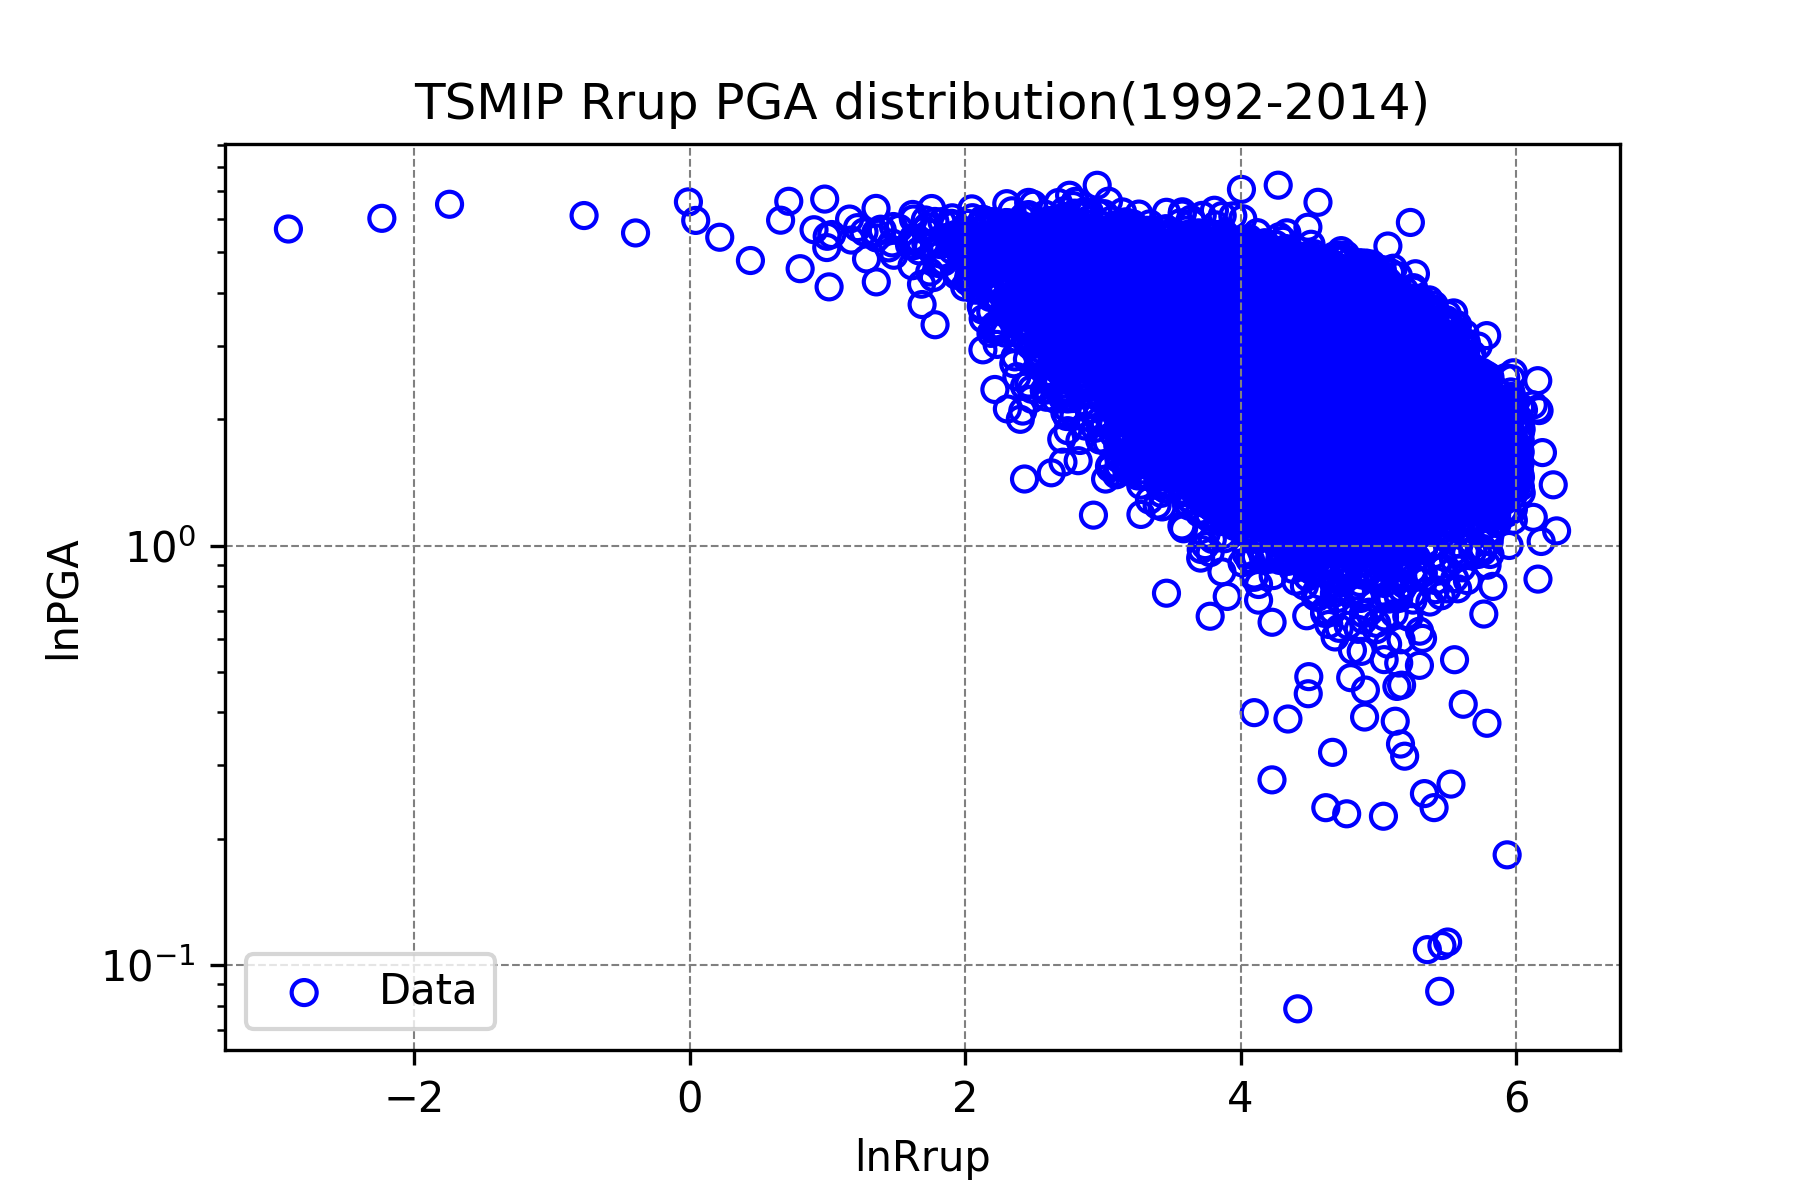
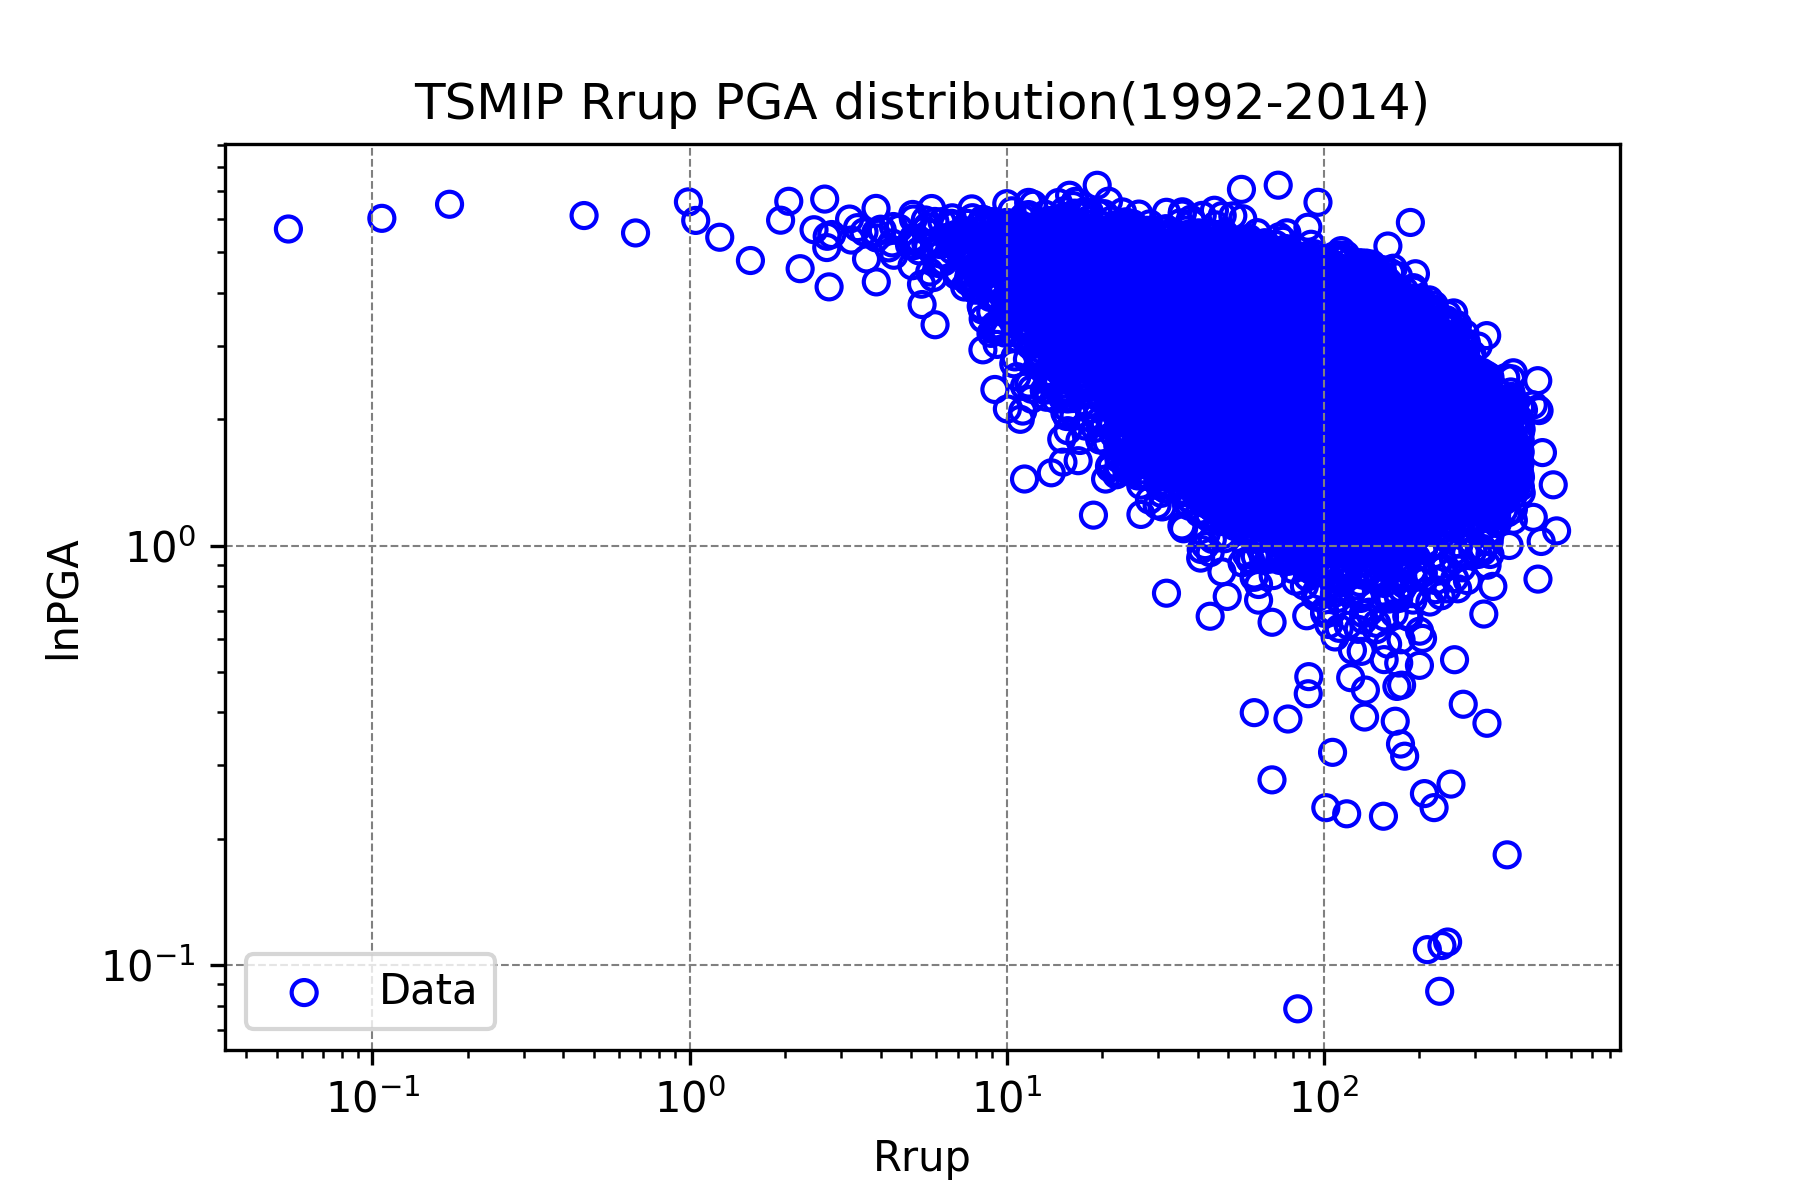
result figure

diff --git a/machine_learning/SVR/SVR_TSMIP_smogn.py b/machine_learning/SVR/SVR_TSMIP_smogn.py
@@ -125,38 +125,15 @@ t0 = time.time()
 grid_result = svr_rbf.fit(x_train, y_train)
 fit_time = time.time() - t0
 svr_predict = svr_rbf.predict(x_test)
+svr_predict_train = svr_rbf.predict(x_train)
 # 評估，打分數
 score = svr_rbf.score(x_test, y_test)
+score_train = svr_rbf.score(x_train, y_train)
 print("初步得到的分數: ", score)
 
 # # Cross_validation計算成績
 scores = cross_val_score(svr_rbf, x, y, cv=6, scoring=two_scorer())
 print("CV後 R2 scores:", scores)
-
-# ################### SMOGN_data distribution ###########################
-# 1. Rrup Mw distribution
-
-# plt.grid(color='gray', linestyle = '--',linewidth=0.5)
-# plt.scatter(TSMIP_df['Rrup'], TSMIP_df['MW'], marker='o',facecolors='none',edgecolors='b', label= 'Data') #數據點
-# plt.xscale("log")
-# plt.xlim(1e-1,1e3)
-# plt.xlabel('Rrup')
-# plt.ylabel('Mw')
-# plt.title('TSMIP_SMOGN Data distribution')
-# plt.legend()
-# plt.savefig(f'TSMIP_SMOGN Data distribution.png',dpi=300)
-# plt.show()
-
-# 2. Vs30 Number of ground motion distribution
-
-# plt.grid(color='gray', linestyle = '--',linewidth=0.5)
-# plt.hist(TSMIP_smogn_df['Vs30'], bins=20, edgecolor="yellow", color="green")
-# plt.xlabel('Vs30(m/s)')
-# plt.ylabel('Number of record')
-# plt.ylim(0,9000)
-# plt.title('TSMIP_SMOGN Vs30 distribution')
-# plt.savefig('TSMIP_SMOGN Vs30 distribution.png',dpi=300)
-# plt.show()
 
 ######################### residual #########################
 # 1. 計算Vs30_residual
@@ -171,8 +148,8 @@ plt.xscale("log")
 plt.xlim(1e2, 2 * 1e3)
 plt.ylim(-3, 3)
 plt.xlabel('Vs30(m/s)')
-plt.ylabel('Residual_PGA(cm/s^2)')
-plt.title('SVR Predict Residual R:accuracy: %.3f' % (score))
+plt.ylabel('Residual_lnPGA(cm/s^2)')
+plt.title('SVR Predict Residual R2 score: %.3f' % (score))
 plt.savefig(f'Vs30-SVR_predict_residual.png', dpi=300)
 plt.show()
 
@@ -187,8 +164,8 @@ plt.scatter(x_test[:, 1],
 plt.xlim(3, 8)
 plt.ylim(-3, 3)
 plt.xlabel('Mw')
-plt.ylabel('Residual_PGA(cm/s^2)')
-plt.title('SVR Predict Residual R:accuracy: %.3f' % (score))
+plt.ylabel('Residual_lnPGA(cm/s^2)')
+plt.title('SVR Predict Residual R2 score: %.3f' % (score))
 plt.savefig(f'Mw-SVR_predict_residual.png', dpi=300)
 plt.show()
 
@@ -201,40 +178,41 @@ plt.scatter(np.exp(x_test[:, 2]),
             facecolors='none',
             edgecolors='r')  #迴歸線
 plt.xscale("log")
-plt.xlim(1e0, 1e3)
+plt.xlim(5 * 1e0, 1e3)
 plt.ylim(-3, 3)
 plt.xlabel('Rrup(km)')
-plt.ylabel('Residual_PGA(cm/s^2)')
-plt.title('SVR Predict Residual R:accuracy: %.3f' % (score))
+plt.ylabel('Residual_lnPGA(cm/s^2)')
+plt.title('SVR Predict Residual R2 score: %.3f' % (score))
 plt.savefig(f'Rrup-SVR_predict_residual.png', dpi=300)
 plt.show()
 
 ######################### 畫svr_predict 關係圖 #########################
 # 1. Vs30 and svr_predict 關係圖
 plt.grid(linestyle=':', color='darkgrey')
-plt.scatter(x_test[:, 0],
+plt.scatter(np.exp(x_test[:, 0]),
             y_test,
             marker='o',
             facecolors='none',
             edgecolors='b',
             label='True Values')  #數據點
-plt.scatter(x_test[:, 0],
+plt.scatter(np.exp(x_test[:, 0]),
             svr_predict,
             marker='o',
             facecolors='none',
             edgecolors='r',
             label='Predict Values')  #迴歸線
 plt.xscale("log")
-plt.xlim(1e-1, 1e3)
+plt.xlim(1e2, 2 * 1e3)
 # plt.ylim(-2, 3)
 plt.xlabel('Vs30(m/s)')
 plt.ylabel('lnPGA(cm/s^2)')
-plt.title('SVR Predict Distribution R:accuracy: %.3f' % (score))
+plt.title('Vs30-SVR_predict Distribution R2 score: %.3f' % (score))
+plt.legend()
 plt.savefig(f'Vs30-SVR_predict.png', dpi=300)
 plt.show()
 
 # 2. Mw and svr_predict relationship
-plt.grid(linestyle=':')
+plt.grid(linestyle=':', color='darkgrey')
 plt.scatter(x_test[:, 1],
             y_test,
             marker='o',
@@ -249,43 +227,70 @@ plt.scatter(x_test[:, 1],
             label='Predict Values')  #迴歸線
 plt.yscale("log")
 plt.xlim(3, 8)
-plt.ylim(1e-3, 1e4)
+# plt.ylim(1e-3, 1e4)
 plt.xlabel('Mw')
-plt.ylabel('PGA(cm/s^2)')
-plt.title('Support Vector Regression')
+plt.ylabel('lnPGA(cm/s^2)')
+plt.title('Mw-SVR_predict Distribution R2 score: %.3f' % (score))
 plt.legend()
-plt.savefig(f'Mw-SVR_SMOGN_predict.png', dpi=300)
+plt.savefig(f'Mw-SVR_predict.png', dpi=300)
 plt.show()
 
 # 3. Rrup and svr_predict relationship
-plt.grid(linestyle=':')
-plt.scatter(x_test[:, 2],
+plt.grid(linestyle=':', color='darkgrey')
+plt.scatter(np.exp(x_test[:, 2]),
             y_test,
             marker='o',
             facecolors='none',
             edgecolors='b',
-            label='Data')  #數據點
-plt.scatter(x_test[:,2], svr_predict,marker='o',facecolors='none',edgecolors='r', \
-    label='SVR (fit: %.3fs, accuracy: %.3f)' % (fit_time, score)) #迴歸線
+            label='True Values')  #數據點
+plt.scatter(np.exp(x_test[:, 2]),
+            svr_predict,
+            marker='o',
+            facecolors='none',
+            edgecolors='r',
+            label='Predict Values')  #迴歸線
+plt.xscale("log")
+plt.yscale("log")
 plt.xlabel('lnRrup')
-plt.ylabel('svr_predict')
-plt.title('Support Vector Regression')
+plt.ylabel('lnPGA(cm/s^2)')
+plt.title('Rrup-SVR_predict Distribution R2 score: %.3f' % (score))
 plt.legend()
-plt.savefig(f'Rrup-SVR_SMOGN_predict.png', dpi=300)
+plt.savefig(f'Rrup-SVR_predict.png', dpi=300)
 plt.show()
 
 ###################### 預測PGA和實際PGA #####################
-plt.grid(linestyle=':')
-plt.scatter(y_test, svr_predict,marker='o',facecolors='none',edgecolors='r', \
-    label='SVR (fit: %.3fs, accuracy: %.3f)' % (fit_time, score)) #迴歸線.
-x = [0, 2, 4, 6, 8, 10]
-y = [0, 2, 4, 6, 8, 10]
+# training subset
+plt.grid(linestyle=':', color='darkgrey')
+plt.scatter(y_train, svr_predict_train, marker='o', facecolors='none',
+            edgecolors='r',label="Data")  #迴歸線.
+x = [-5, 10]
+y = [-5, 10]
 plt.plot(x, y, color='blue')
-plt.xlabel('Measured PGA')
-plt.ylabel('svr_Predict PGA')
-plt.ylim(0, 10)
-plt.xlim(0, 10)
-plt.title('Support Vector Regression')
+plt.xlabel('Measured ln(PGA)(cm/s^2)')
+plt.ylabel('SVR_Predict ln(PGA)(cm/s^2)')
+plt.ylim(-5, 10)
+plt.xlim(-5, 10)
+plt.text(6,-2,f"R2 score = {round(score_train,2)}")
+plt.text(6,-1,f"MAE = 0.38")
 plt.legend()
-plt.savefig(f'PGA_comparison_SMOGN_predict.png', dpi=300)
+plt.title('Measured_Predict Distribution')
+plt.savefig(f'Measured_Predict Training Subset.png', dpi=300)
+plt.show()
+
+# testing subset
+plt.grid(linestyle=':', color='darkgrey')
+plt.scatter(y_test, svr_predict, marker='o', facecolors='none',
+            edgecolors='r',label="Data")  #迴歸線.
+x = [-5, 10]
+y = [-5, 10]
+plt.plot(x, y, color='blue')
+plt.xlabel('Measured ln(PGA)(cm/s^2)')
+plt.ylabel('SVR_Predict ln(PGA)(cm/s^2)')
+plt.ylim(-5, 10)
+plt.xlim(-5, 10)
+plt.text(6,-2,f"R2 score = {round(score,2)}")
+plt.text(6,-1,f"MAE = 0.40")
+plt.legend()
+plt.title('Measured_Predict Distribution')
+plt.savefig(f'Measured_Predict Testing Subset.png', dpi=300)
 plt.show()

diff --git a/machine_learning/SVR/SMOGN_data_distribution.py b/machine_learning/SVR/SMOGN_data_distribution.py
@@ -1,0 +1,94 @@
+import smogn
+import pandas as pd
+import numpy as np
+import matplotlib.pyplot as plt
+import pygmt
+import time
+from sklearn.model_selection import cross_val_score
+from sklearn.svm import SVR
+from sklearn.model_selection import train_test_split
+from sklearn.metrics import r2_score, mean_squared_error, make_scorer
+
+TSMIP_df = pd.read_csv("../../../TSMIP_FF.csv")
+TSMIP_smogn_df = pd.read_csv("../../../TSMIP_smogn.csv")
+
+TSMIP_df['lnVs30'] = np.log(TSMIP_df['Vs30'])
+TSMIP_df = TSMIP_df[(TSMIP_df['Rrup'] < 1000) & (TSMIP_df['Rrup'] > 10)]
+TSMIP_df = TSMIP_df[TSMIP_df['MW'] < 6.8]  # 試看看跟paper一樣的資料分布
+TSMIP_df['lnRrup'] = np.log(TSMIP_df['Rrup'])
+TSMIP_df['Mw_size'] = np.zeros(len(TSMIP_df['lnRrup']))
+TSMIP_df['log10Vs30'] = np.log10(TSMIP_df['Vs30'])
+TSMIP_df['log10Rrup'] = np.log10(TSMIP_df['Rrup'])
+TSMIP_df['fault.type'] = TSMIP_df['fault.type'].str.replace("RO", "1")
+TSMIP_df['fault.type'] = TSMIP_df['fault.type'].str.replace("RV", "1")
+TSMIP_df['fault.type'] = TSMIP_df['fault.type'].str.replace("NM", "2")
+TSMIP_df['fault.type'] = TSMIP_df['fault.type'].str.replace("NO", "2")
+TSMIP_df['fault.type'] = TSMIP_df['fault.type'].str.replace("SS", "3")
+TSMIP_df['fault.type'] = pd.to_numeric(TSMIP_df['fault.type'])
+TSMIP_df['lnPGA(gal)'] = np.log(TSMIP_df['PGA'] * 980)
+
+TSMIP_smogn_df['lnVs30'] = np.log(TSMIP_smogn_df['Vs30'])
+TSMIP_smogn_df['lnRrup'] = np.log(TSMIP_smogn_df['Rrup'])
+TSMIP_smogn_df['Mw_size'] = np.zeros(len(TSMIP_smogn_df['lnRrup']))
+TSMIP_smogn_df['log10Vs30'] = np.log10(TSMIP_smogn_df['Vs30'])
+TSMIP_smogn_df['log10Rrup'] = np.log10(TSMIP_smogn_df['Rrup'])
+TSMIP_smogn_df['fault.type'] = TSMIP_smogn_df['fault.type'].str.replace(
+    "RO", "1")
+TSMIP_smogn_df['fault.type'] = TSMIP_smogn_df['fault.type'].str.replace(
+    "RV", "1")
+TSMIP_smogn_df['fault.type'] = TSMIP_smogn_df['fault.type'].str.replace(
+    "NM", "2")
+TSMIP_smogn_df['fault.type'] = TSMIP_smogn_df['fault.type'].str.replace(
+    "NO", "2")
+TSMIP_smogn_df['fault.type'] = TSMIP_smogn_df['fault.type'].str.replace(
+    "SS", "3")
+TSMIP_smogn_df['fault.type'] = pd.to_numeric(TSMIP_smogn_df['fault.type'])
+TSMIP_smogn_df['lnPGA(gal)'] = np.log(TSMIP_smogn_df['PGA'] * 980)
+
+#################################################################
+
+TSMIP_smogn_ori_df = pd.read_csv("../../../TSMIP_smogn+oridata.csv")
+
+TSMIP_smogn_ori_df['lnVs30'] = np.log(TSMIP_smogn_ori_df['Vs30'])
+TSMIP_smogn_ori_df['lnRrup'] = np.log(TSMIP_smogn_ori_df['Rrup'])
+TSMIP_smogn_ori_df['Mw_size'] = np.zeros(len(TSMIP_smogn_ori_df['lnRrup']))
+TSMIP_smogn_ori_df['log10Vs30'] = np.log10(TSMIP_smogn_ori_df['Vs30'])
+TSMIP_smogn_ori_df['log10Rrup'] = np.log10(TSMIP_smogn_ori_df['Rrup'])
+TSMIP_smogn_ori_df['fault.type'] = TSMIP_smogn_ori_df[
+    'fault.type'].str.replace("RO", "1")
+TSMIP_smogn_ori_df['fault.type'] = TSMIP_smogn_ori_df[
+    'fault.type'].str.replace("RV", "1")
+TSMIP_smogn_ori_df['fault.type'] = TSMIP_smogn_ori_df[
+    'fault.type'].str.replace("NM", "2")
+TSMIP_smogn_ori_df['fault.type'] = TSMIP_smogn_ori_df[
+    'fault.type'].str.replace("NO", "2")
+TSMIP_smogn_ori_df['fault.type'] = TSMIP_smogn_ori_df[
+    'fault.type'].str.replace("SS", "3")
+TSMIP_smogn_ori_df['fault.type'] = pd.to_numeric(
+    TSMIP_smogn_ori_df['fault.type'])
+TSMIP_smogn_ori_df['lnPGA(gal)'] = np.log(TSMIP_smogn_ori_df['PGA'] * 980)
+
+
+# 1. Rrup Mw distribution
+
+# plt.grid(color='gray', linestyle = '--',linewidth=0.5)
+# plt.scatter(TSMIP_df['Rrup'], TSMIP_df['MW'], marker='o',facecolors='none',edgecolors='b', label= 'Data') #數據點
+# plt.xscale("log")
+# plt.xlim(1e-1,1e3)
+# plt.xlabel('Rrup')
+# plt.ylabel('Mw')
+# plt.title('TSMIP_SMOGN Data distribution')
+# plt.legend()
+# plt.savefig(f'TSMIP_SMOGN Data distribution.png',dpi=300)
+# plt.show()
+
+# 2. Vs30 Number of ground motion distribution
+
+# plt.grid(color='gray', linestyle = '--',linewidth=0.5)
+# plt.hist(TSMIP_smogn_df['Vs30'], bins=20, edgecolor="yellow", color="green")
+# plt.xlabel('Vs30(m/s)')
+# plt.ylabel('Number of record')
+# plt.ylim(0,9000)
+# plt.title('TSMIP_SMOGN Vs30 distribution')
+# plt.savefig('TSMIP_SMOGN Vs30 distribution.png',dpi=300)
+# plt.show()

diff --git a/machine_learning/SVR/data_distribution.py b/machine_learning/SVR/data_distribution.py
@@ -13,17 +13,17 @@ df['lnPGA'] = np.log(df['PGA'] * 980)
 ################### PGA Vs30 distribution ###########################
 
 plt.grid(color='gray', linestyle='--', linewidth=0.5)
-plt.scatter(df['lnVs30'],
+plt.scatter(df['Vs30'],
             df['lnPGA'],
             marker='o',
             facecolors='none',
             edgecolors='b',
             label='Data')  #數據點
-# plt.xscale("log")
-plt.yscale("log")
-# plt.xlim(3, 8)
+plt.xscale("log")
+# plt.yscale("log")
+plt.xlim(1e2, 2*1e3)
 # plt.ylim(1e-1, 1e3)
-plt.xlabel('lnVs30')
+plt.xlabel('Vs30')
 plt.ylabel('lnPGA')
 plt.title('TSMIP Vs30 PGA distribution(1992-2014)')
 plt.legend()
@@ -54,17 +54,17 @@ plt.show()
 ################### PGA Rrup distribution ###########################
 
 plt.grid(color='gray', linestyle='--', linewidth=0.5)
-plt.scatter(df['lnRrup'],
+plt.scatter(df['Rrup'],
             df['lnPGA'],
             marker='o',
             facecolors='none',
             edgecolors='b',
             label='Data')  #數據點
-# plt.xscale("log")
+plt.xscale("log")
 plt.yscale("log")
 # plt.xlim(1e-1, 1e3)
 # plt.ylim(1e-1, 1e3)
-plt.xlabel('lnRrup')
+plt.xlabel('Rrup')
 plt.ylabel('lnPGA')
 plt.title('TSMIP Rrup PGA distribution(1992-2014)')
 plt.legend()
